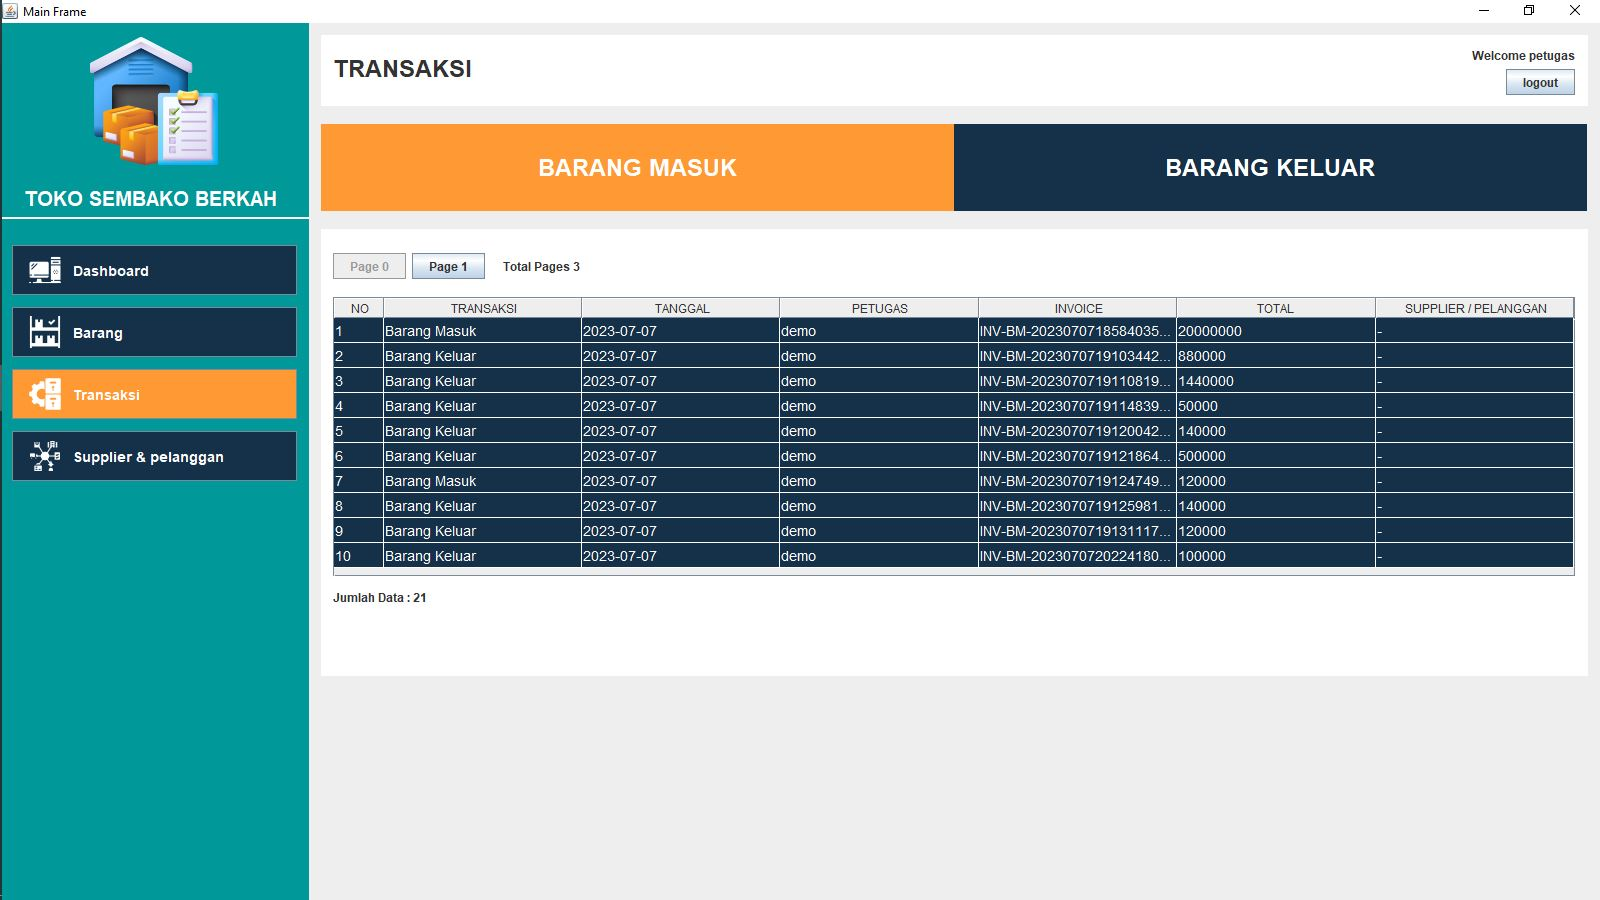
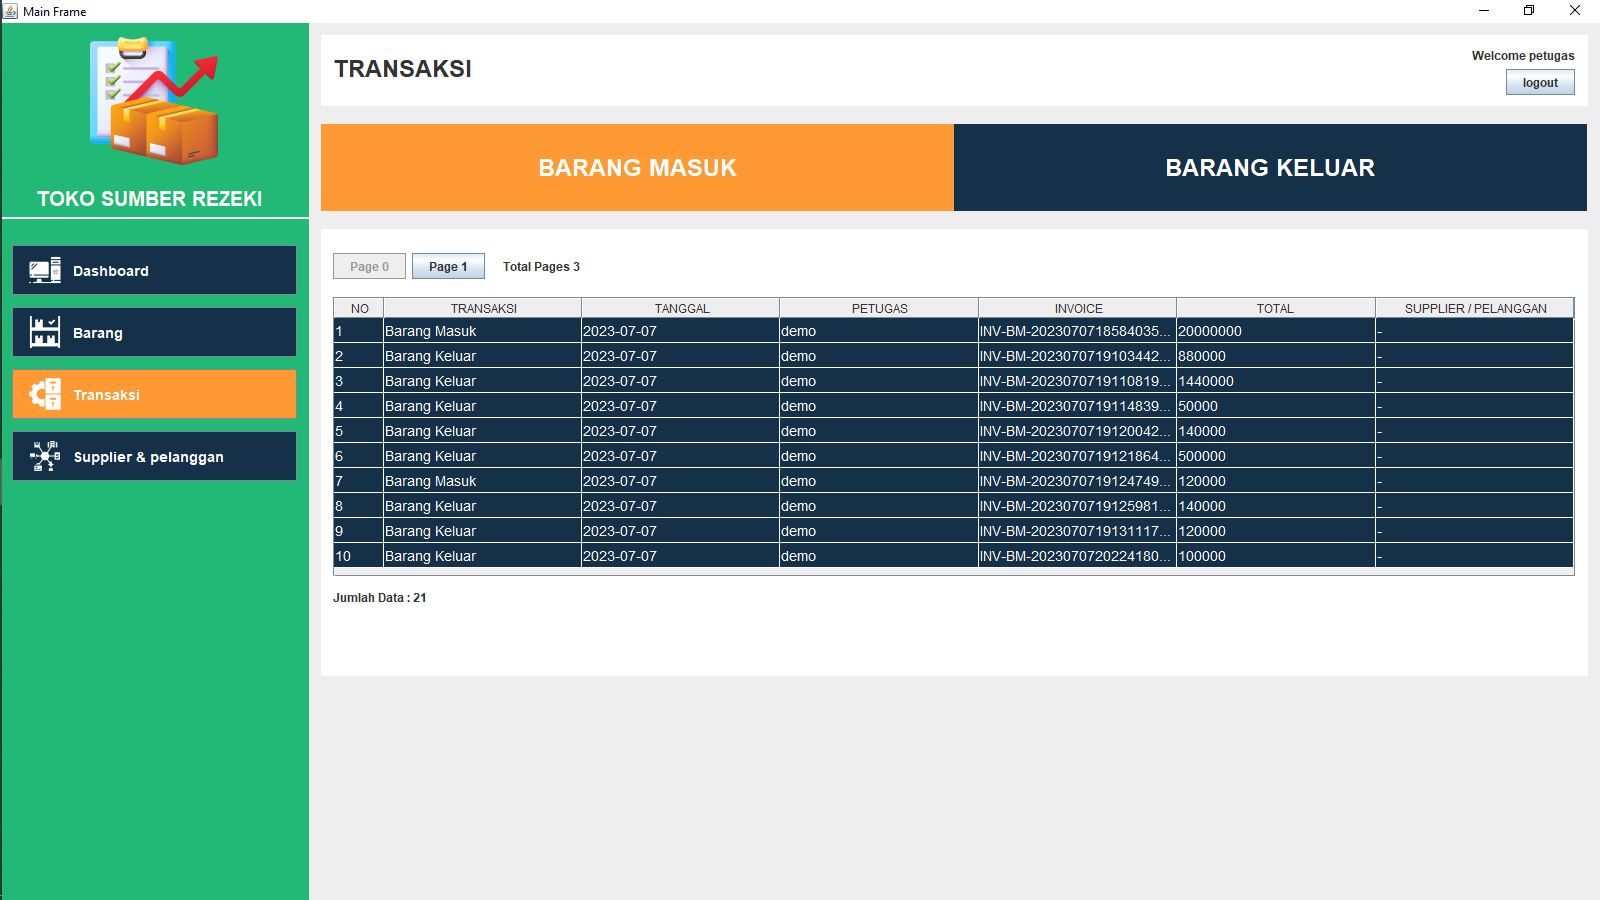
algoritma apriori

Changed region(s): [[0.0, 0.0, 0.2188, 1.0]]

diff --git a/src/tokosembakoberkah/view/Navigation/Navigation.java b/src/tokosembakoberkah/view/Navigation/Navigation.java
@@ -57,7 +57,7 @@ public class Navigation extends javax.swing.JPanel {
         jSeparator1 = new javax.swing.JSeparator();
         SP = new javax.swing.JButton();
 
-        setBackground(new java.awt.Color(0, 153, 153));
+        setBackground(new java.awt.Color(34, 185, 119));
         setToolTipText("");
 
         dahsboard.setFont(new java.awt.Font("sansserif", 1, 14)); // NOI18N
@@ -98,14 +98,15 @@ public class Navigation extends javax.swing.JPanel {
         });
 
         jButton1.setBackground(new java.awt.Color(246, 246, 246));
-        jButton1.setIcon(new javax.swing.ImageIcon(getClass().getResource("/res/icon/inventory.png"))); // NOI18N
+        jButton1.setIcon(new javax.swing.ImageIcon(getClass().getResource("/res/icon/material-management.png"))); // NOI18N
         jButton1.setBorder(null);
         jButton1.setContentAreaFilled(false);
         jButton1.setFocusPainted(false);
 
+        jLabel1.setBackground(java.awt.Color.darkGray);
         jLabel1.setFont(new java.awt.Font("sansserif", 1, 20)); // NOI18N
         jLabel1.setForeground(new java.awt.Color(255, 255, 255));
-        jLabel1.setText("  TOKO SEMBAKO BERKAH");
+        jLabel1.setText("    TOKO SUMBER REZEKI");
         jLabel1.setFocusable(false);
 
         jSeparator1.setBackground(new java.awt.Color(255, 255, 255));

diff --git a/src/tokosembakoberkah/view/Dashboard/DashboardPanel.java b/src/tokosembakoberkah/view/Dashboard/DashboardPanel.java
@@ -197,7 +197,7 @@ public class DashboardPanel extends javax.swing.JPanel {
 
         jPanel8.setLayout(new java.awt.GridLayout(1, 0));
 
-        Bkeluar.setBackground(new java.awt.Color(20, 49, 73));
+        Bkeluar.setBackground(new java.awt.Color(4, 94, 193));
         Bkeluar.setCursor(new java.awt.Cursor(java.awt.Cursor.HAND_CURSOR));
         Bkeluar.addMouseListener(new java.awt.event.MouseAdapter() {
             public void mouseClicked(java.awt.event.MouseEvent evt) {
@@ -213,7 +213,7 @@ public class DashboardPanel extends javax.swing.JPanel {
 
         jPanel8.add(Bkeluar);
 
-        Bmasuk.setBackground(new java.awt.Color(255, 153, 51));
+        Bmasuk.setBackground(new java.awt.Color(211, 35, 66));
         Bmasuk.setCursor(new java.awt.Cursor(java.awt.Cursor.HAND_CURSOR));
         Bmasuk.addMouseListener(new java.awt.event.MouseAdapter() {
             public void mouseClicked(java.awt.event.MouseEvent evt) {
